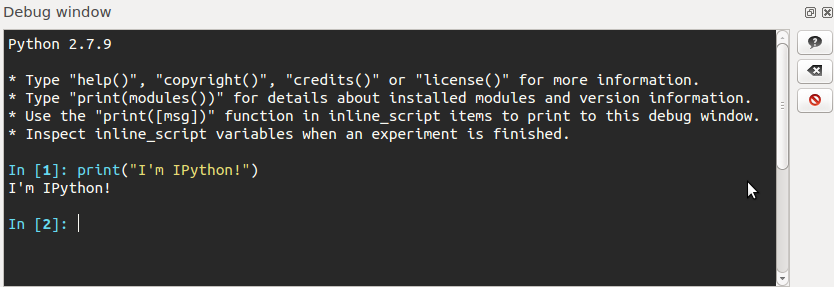
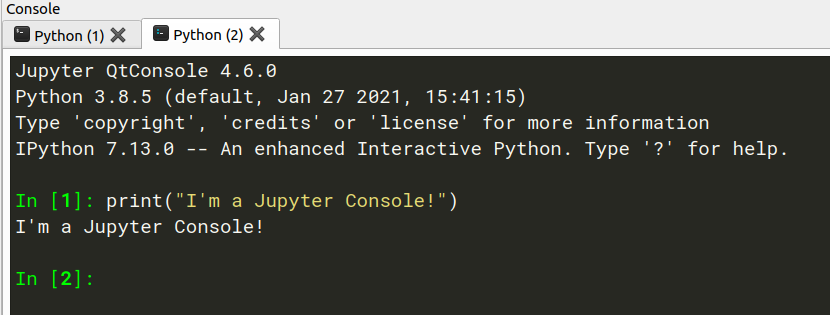
Update Python docs

Changed region(s): [[0.0, 0.0, 1.0, 1.0]]

diff --git a/content/pages/manual/python/about.md b/content/pages/manual/python/about.md
@@ -6,14 +6,8 @@ In OpenSesame you can create complex experiments using only the graphical user i
 
 ## Learning Python
 
-- __Learn Python__ -- A set of basic tutorials and exercises to get you started:
-    - <http://python.cogsci.nl/>
-- __Code Academy__ -- The Python track at Code Academy is an excellent way to get started with Python:
-    - <http://www.codecademy.com/tracks/python>
-- __A Byte of Python__ -- A good free E-book to learn Python for non-programmers is "A Byte of Python", by Swaroop. Make sure to get the version for Python 2, which is what OpenSesame uses.
-    - ["A Byte of Python"][swaroop] by Swaroop [[Download PDF for Python 2.X]][swaroop-direct]
-- __Think Python__ -- Another good free E-Book is "Think Python", by Allen B. Downey. This book should work for Python 2 as well as Python 3.
-    - ["Think Python"][downey] by Allen B. Downey [[Download PDF]][downey-direct]
+You can find a set of basic tutorials and exercises to get you started with Python at <https://python.cogsci.nl/>.
+
 
 ## Python in the OpenSesame GUI
 
@@ -103,29 +97,26 @@ figure:
 
 You can embed Python statements in text strings using the `[=...]` syntax. For example, you could the following text to a SKETCHPAD:
 
-    The resolution is [=var.width] x [=var.height] px
+```bash
+The resolution is [=var.width] x [=var.height] px
+```
 
 Depending on your experiment's resolution, this might evaluate to:
 
-    The resolution is 1024 x 768 px
+```bash
+The resolution is 1024 x 768 px
+```
 
 
-### The IPython debug window
+### The Jupyter console (debug window)
 
-OpenSesame reroutes the standard output to the debug window, which you can activate using Control + D or through the menu (Menu -> View -> Show debug window; see %FigDebugNormal). You can print to the debug window using `print()`:
+OpenSesame reroutes the standard output to the console (or: debug window), which you can activate using Control + D or through the menu (Menu -> View -> Show debug window; see %FigDebugNormal). You can print to the console using `print()`.
 
 ~~~ .python
 print('This will appear in the debug window!')
 ~~~
 
-If available, the debug window is an [IPython] terminal. IPython is a powerful interactive Python terminal. If IPython is not available, a simple fallback terminal will be used.
-
-%--
-figure:
- id: FigDebugNormal
- source: debug-window.png
- caption: The debug window.
---%
+The console is also an interactive Python interpreter powered by [project Jupyter](https://jupyter.org).
 
 
 ## Things to know
